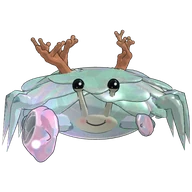
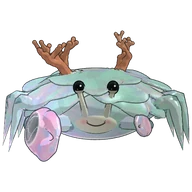
Shoal: smaller, far more intense world colours, a crabwise shuffle, and a bulldozer that visibly knocks obstacles off the road
- Drawn at 0.68 of life-size instead of 0.9 (half the runner's height at his shell); his breadth, claw reach and extent scaled to match
- Every world's palette pushed much harder (INTENSE: about 1.75x the saturation, pale tones pulled toward the full colour); his window and sheen only a little; facet edges and shell highlights toned down so the colour reads
- New idea, shuffle: he turns side on and runs along crabwise, weaving across his lane and sometimes turning about, eyes on the road; his stride now follows the way he's really going (across under him when side on); crabwise eases back instead of snapping
- Living Bulldozer: smashed obstacles are thrown clear of the road in a high spinning arc (squashed by the blow first) and only crumble once they've landed, over 1.6 s, with more rubble; he holds 7-11 m ahead instead of up to 14 so you see it happen
- Viewer: &crabwise=; portrait and docs image refreshed; README updated

Claude-Session: https://claude.ai/code/session_01XAN2RbzyEHspjm4Kn2Hekw

diff --git a/index.html b/index.html
@@ -31,10 +31,10 @@
     </style>
     <!-- release:start (written by tools/preload.py) -->
     <script type="importmap">
-    {"imports":{"./src/main.js":"./src/main.js?v=6f2a2a53da","./vendor/three/three.module.min.js":"./vendor/three/three.module.min.js?v=86bcee248b","./src/config.js":"./src/config.js?v=6867cf82cc","./src/render/shaders.js":"./src/render/shaders.js?v=ad3de8a980","./src/render/textures.js":"./src/render/textures.js?v=6d802edcba","./src/game/game.js":"./src/game/game.js?v=4bc769b2b2","./src/game/runner-asset.js":"./src/game/runner-asset.js?v=820ba20132","./src/game/characters.js":"./src/game/characters.js?v=33189eeacd","./src/game/companions.js":"./src/game/companions.js?v=7b829034a6","./src/world/index.js":"./src/world/index.js?v=f0cb629593","./src/world/world.js":"./src/world/world.js?v=ec93006a43","./src/game/prep.js":"./src/game/prep.js?v=e2e4f5b7a0","./src/core/input.js":"./src/core/input.js?v=03c1eb8ae7","./src/core/audio.js":"./src/core/audio.js?v=72e25c05c7","./src/ui/ui.js":"./src/ui/ui.js?v=1018e61893","./src/core/pacer.js":"./src/core/pacer.js?v=def43f8ae2","./src/core/quality.js":"./src/core/quality.js?v=8bfe731f23","./vendor/three/three.core.min.js":"./vendor/three/three.core.min.js?v=05b2609338","./src/render/candy.js":"./src/render/candy.js?v=a455b9b61f","./src/render/coast.js":"./src/render/coast.js?v=0663fd8f92","./src/core/rng.js":"./src/core/rng.js?v=abd1388a55","./src/render/particles.js":"./src/render/particles.js?v=f994d447a6","./src/game/course.js":"./src/game/course.js?v=1e674488dc","./src/game/chunks.js":"./src/game/chunks.js?v=f6cbbab127","./src/game/obstacles.js":"./src/game/obstacles.js?v=6bf00a3e3e","./src/game/gems.js":"./src/game/gems.js?v=d65f5abdf4","./src/render/sparkles.js":"./src/render/sparkles.js?v=997ba51a70","./src/game/camera.js":"./src/game/camera.js?v=1260744e47","./src/game/portal.js":"./src/game/portal.js?v=6d3c037577","./src/game/dream.js":"./src/game/dream.js?v=4e124d06a9","./src/game/bubbles.js":"./src/game/bubbles.js?v=4258f1e8c6","./src/game/splash.js":"./src/game/splash.js?v=92b98edefe","./src/game/warp.js":"./src/game/warp.js?v=fb484729e7","./src/game/sands.js":"./src/game/sands.js?v=d0b8a8de44","./src/game/progress.js":"./src/game/progress.js?v=8904c5a353","./src/game/powers.js":"./src/game/powers.js?v=063f8b2caf","./src/game/powerfx.js":"./src/game/powerfx.js?v=9a3afb67de","./src/game/wayfarer.js":"./src/game/wayfarer.js?v=41cb6a425d","./src/game/explorer.js":"./src/game/explorer.js?v=366568e27d","./src/game/elder.js":"./src/game/elder.js?v=136d99576d","./src/game/bunny.js":"./src/game/bunny.js?v=2b7d0f1765","./src/game/skater.js":"./src/game/skater.js?v=c729851aac","./src/game/samurai.js":"./src/game/samurai.js?v=2f82d9cd73","./src/game/fisher.js":"./src/game/fisher.js?v=9dcc7f9fe2","./src/game/fox.js":"./src/game/fox.js?v=a81905a96b","./src/game/companion.js":"./src/game/companion.js?v=008410158d","./src/game/dragon.js":"./src/game/dragon.js?v=11e0b82cd0","./src/game/flyer.js":"./src/game/flyer.js?v=934fb13ac5","./src/game/pitcher.js":"./src/game/pitcher.js?v=861a45cc75","./src/game/sprout.js":"./src/game/sprout.js?v=6f41f0c5be","./src/game/thistle.js":"./src/game/thistle.js?v=038bf22d29","./src/game/scurrier.js":"./src/game/scurrier.js?v=d706bed905","./src/game/crab.js":"./src/game/crab.js?v=592d37f452","./src/game/scuttler.js":"./src/game/scuttler.js?v=afa3cea3eb","./src/world/village.js":"./src/world/village.js?v=47d51ac366","./src/world/conservatory.js":"./src/world/conservatory.js?v=2e40981815","./src/world/forest.js":"./src/world/forest.js?v=500c880cf7","./src/world/candy.js":"./src/world/candy.js?v=bfefc39dc7","./src/world/rooftops.js":"./src/world/rooftops.js?v=5252d9ae61","./src/world/corridor.js":"./src/world/corridor.js?v=e2e5a154c5","./src/world/causeway.js":"./src/world/causeway.js?v=769bab5fac","./src/world/hell.js":"./src/world/hell.js?v=b3ab1a8175","./src/world/time.js":"./src/world/time.js?v=3fba54db6b","./src/world/ocean.js":"./src/world/ocean.js?v=b53c74ec24","./src/world/coast.js":"./src/world/coast.js?v=ce6e2982e8","./src/world/frost.js":"./src/world/frost.js?v=20f3330c81","./src/world/space.js":"./src/world/space.js?v=590468a61f","./src/render/batch.js":"./src/render/batch.js?v=ac0ce8dd63","./src/render/geo.js":"./src/render/geo.js?v=65235bbcb7","./src/world/planets.js":"./src/world/planets.js?v=0ae3276c9e","./src/world/river.js":"./src/world/river.js?v=9d1eb1658a","./src/game/drift.js":"./src/game/drift.js?v=1af79ddf31","./src/game/dust.js":"./src/game/dust.js?v=ea49fc9c99","./src/game/rig.js":"./src/game/rig.js?v=98e7195ada","./src/game/cloth.js":"./src/game/cloth.js?v=c7724fb614","./src/game/kit.js":"./src/game/kit.js?v=d22167362f","./src/game/outfit.js":"./src/game/outfit.js?v=af7aad6ba3","./src/game/player.js":"./src/game/player.js?v=52fc1bd819","./src/game/spill.js":"./src/game/spill.js?v=796bd6ce32","./src/game/sparks.js":"./src/game/sparks.js?v=062d576e7f","./src/game/props.js":"./src/game/props.js?v=db53ab6b6e","./src/game/seeds.js":"./src/game/seeds.js?v=2d185d41e4","./src/game/ribbon.js":"./src/game/ribbon.js?v=e630179469","./src/game/splashes.js":"./src/game/splashes.js?v=4a8f28cdb0","./src/game/tank.js":"./src/game/tank.js?v=cf10a6fda0","./src/game/castline.js":"./src/game/castline.js?v=219637935e","./src/render/caster.js":"./src/render/caster.js?v=565e8d80bc","./src/world/shapes.js":"./src/world/shapes.js?v=a1fade4ae2","./src/world/whimsy.js":"./src/world/whimsy.js?v=dc69d92aa1","./src/world/gems.js":"./src/world/gems.js?v=40d26f9f4a","./src/world/lane-art.js":"./src/world/lane-art.js?v=2245aa0fec","./src/world/hall-art.js":"./src/world/hall-art.js?v=8e03e0086f"}}
+    {"imports":{"./src/main.js":"./src/main.js?v=6f2a2a53da","./vendor/three/three.module.min.js":"./vendor/three/three.module.min.js?v=86bcee248b","./src/config.js":"./src/config.js?v=d7f71a4838","./src/render/shaders.js":"./src/render/shaders.js?v=899fb56639","./src/render/textures.js":"./src/render/textures.js?v=6d802edcba","./src/game/game.js":"./src/game/game.js?v=4bc769b2b2","./src/game/runner-asset.js":"./src/game/runner-asset.js?v=820ba20132","./src/game/characters.js":"./src/game/characters.js?v=33189eeacd","./src/game/companions.js":"./src/game/companions.js?v=464f871ccb","./src/world/index.js":"./src/world/index.js?v=f0cb629593","./src/world/world.js":"./src/world/world.js?v=ec93006a43","./src/game/prep.js":"./src/game/prep.js?v=e2e4f5b7a0","./src/core/input.js":"./src/core/input.js?v=03c1eb8ae7","./src/core/audio.js":"./src/core/audio.js?v=72e25c05c7","./src/ui/ui.js":"./src/ui/ui.js?v=1018e61893","./src/core/pacer.js":"./src/core/pacer.js?v=def43f8ae2","./src/core/quality.js":"./src/core/quality.js?v=8bfe731f23","./vendor/three/three.core.min.js":"./vendor/three/three.core.min.js?v=05b2609338","./src/render/candy.js":"./src/render/candy.js?v=a455b9b61f","./src/render/coast.js":"./src/render/coast.js?v=0663fd8f92","./src/core/rng.js":"./src/core/rng.js?v=abd1388a55","./src/render/particles.js":"./src/render/particles.js?v=f994d447a6","./src/game/course.js":"./src/game/course.js?v=1e674488dc","./src/game/chunks.js":"./src/game/chunks.js?v=f6cbbab127","./src/game/obstacles.js":"./src/game/obstacles.js?v=fc5a4fb1d5","./src/game/gems.js":"./src/game/gems.js?v=d65f5abdf4","./src/render/sparkles.js":"./src/render/sparkles.js?v=997ba51a70","./src/game/camera.js":"./src/game/camera.js?v=1260744e47","./src/game/portal.js":"./src/game/portal.js?v=6d3c037577","./src/game/dream.js":"./src/game/dream.js?v=4e124d06a9","./src/game/bubbles.js":"./src/game/bubbles.js?v=4258f1e8c6","./src/game/splash.js":"./src/game/splash.js?v=92b98edefe","./src/game/warp.js":"./src/game/warp.js?v=fb484729e7","./src/game/sands.js":"./src/game/sands.js?v=d0b8a8de44","./src/game/progress.js":"./src/game/progress.js?v=8904c5a353","./src/game/powers.js":"./src/game/powers.js?v=3f8229a91c","./src/game/powerfx.js":"./src/game/powerfx.js?v=9a3afb67de","./src/game/wayfarer.js":"./src/game/wayfarer.js?v=41cb6a425d","./src/game/explorer.js":"./src/game/explorer.js?v=366568e27d","./src/game/elder.js":"./src/game/elder.js?v=136d99576d","./src/game/bunny.js":"./src/game/bunny.js?v=2b7d0f1765","./src/game/skater.js":"./src/game/skater.js?v=c729851aac","./src/game/samurai.js":"./src/game/samurai.js?v=2f82d9cd73","./src/game/fisher.js":"./src/game/fisher.js?v=9dcc7f9fe2","./src/game/fox.js":"./src/game/fox.js?v=a81905a96b","./src/game/companion.js":"./src/game/companion.js?v=008410158d","./src/game/dragon.js":"./src/game/dragon.js?v=11e0b82cd0","./src/game/flyer.js":"./src/game/flyer.js?v=934fb13ac5","./src/game/pitcher.js":"./src/game/pitcher.js?v=861a45cc75","./src/game/sprout.js":"./src/game/sprout.js?v=6f41f0c5be","./src/game/thistle.js":"./src/game/thistle.js?v=038bf22d29","./src/game/scurrier.js":"./src/game/scurrier.js?v=d706bed905","./src/game/crab.js":"./src/game/crab.js?v=1d0e301cc1","./src/game/scuttler.js":"./src/game/scuttler.js?v=574409ce76","./src/world/village.js":"./src/world/village.js?v=47d51ac366","./src/world/conservatory.js":"./src/world/conservatory.js?v=2e40981815","./src/world/forest.js":"./src/world/forest.js?v=500c880cf7","./src/world/candy.js":"./src/world/candy.js?v=bfefc39dc7","./src/world/rooftops.js":"./src/world/rooftops.js?v=5252d9ae61","./src/world/corridor.js":"./src/world/corridor.js?v=e2e5a154c5","./src/world/causeway.js":"./src/world/causeway.js?v=769bab5fac","./src/world/hell.js":"./src/world/hell.js?v=b3ab1a8175","./src/world/time.js":"./src/world/time.js?v=3fba54db6b","./src/world/ocean.js":"./src/world/ocean.js?v=b53c74ec24","./src/world/coast.js":"./src/world/coast.js?v=ce6e2982e8","./src/world/frost.js":"./src/world/frost.js?v=20f3330c81","./src/world/space.js":"./src/world/space.js?v=590468a61f","./src/render/batch.js":"./src/render/batch.js?v=ac0ce8dd63","./src/render/geo.js":"./src/render/geo.js?v=65235bbcb7","./src/world/planets.js":"./src/world/planets.js?v=0ae3276c9e","./src/world/river.js":"./src/world/river.js?v=9d1eb1658a","./src/game/drift.js":"./src/game/drift.js?v=1af79ddf31","./src/game/dust.js":"./src/game/dust.js?v=ea49fc9c99","./src/game/rig.js":"./src/game/rig.js?v=98e7195ada","./src/game/cloth.js":"./src/game/cloth.js?v=c7724fb614","./src/game/kit.js":"./src/game/kit.js?v=d22167362f","./src/game/outfit.js":"./src/game/outfit.js?v=af7aad6ba3","./src/game/player.js":"./src/game/player.js?v=52fc1bd819","./src/game/spill.js":"./src/game/spill.js?v=796bd6ce32","./src/game/sparks.js":"./src/game/sparks.js?v=062d576e7f","./src/game/props.js":"./src/game/props.js?v=db53ab6b6e","./src/game/seeds.js":"./src/game/seeds.js?v=2d185d41e4","./src/game/ribbon.js":"./src/game/ribbon.js?v=e630179469","./src/game/splashes.js":"./src/game/splashes.js?v=4a8f28cdb0","./src/game/tank.js":"./src/game/tank.js?v=cf10a6fda0","./src/game/castline.js":"./src/game/castline.js?v=219637935e","./src/render/caster.js":"./src/render/caster.js?v=565e8d80bc","./src/world/shapes.js":"./src/world/shapes.js?v=a1fade4ae2","./src/world/whimsy.js":"./src/world/whimsy.js?v=dc69d92aa1","./src/world/gems.js":"./src/world/gems.js?v=40d26f9f4a","./src/world/lane-art.js":"./src/world/lane-art.js?v=2245aa0fec","./src/world/hall-art.js":"./src/world/hall-art.js?v=8e03e0086f"}}
     </script>
     <script>
-      window.__erV = {"assets/bunny/runner.bin":"308ea93321","assets/bunny/runner.bin.gz":"ed12d57aef","assets/bunny/runner.json":"12252320f8","assets/characters/bunny.webp":"e3e0700019","assets/characters/crab-face.webp":"e1bee0ab22","assets/characters/dragon-face.webp":"dec51580b3","assets/characters/elder.webp":"945970510d","assets/characters/explorer.webp":"4bd879e804","assets/characters/fisher.webp":"00f718bb6c","assets/characters/fox-face.webp":"08dcc02601","assets/characters/pitcher-face.webp":"46a7e7bfb9","assets/characters/samurai.webp":"9ae98a0047","assets/characters/skater.webp":"55d60e95b9","assets/characters/thistle-face.webp":"bb3a0765a9","assets/characters/wayfarer.webp":"0add36b52b","assets/crab/runner.bin":"d85c98b519","assets/crab/runner.bin.gz":"cbf1a63ddc","assets/crab/runner.json":"1ecd983c37","assets/dragon/runner.bin":"4734f30ca6","assets/dragon/runner.bin.gz":"685c2dcf90","assets/dragon/runner.json":"89910583e0","assets/elder/runner.bin":"158181f5ce","assets/elder/runner.bin.gz":"e68263fdea","assets/elder/runner.json":"4250919332","assets/explorer/runner.bin":"1f76f8e591","assets/explorer/runner.bin.gz":"5c8455314e","assets/explorer/runner.json":"9cc37d5830","assets/fisher/runner.bin":"2924e082f4","assets/fisher/runner.bin.gz":"65f797e234","assets/fisher/runner.json":"4c5e647f84","assets/fox/runner.bin":"8299cb8bf0","assets/fox/runner.bin.gz":"c619d91fda","assets/fox/runner.json":"5725b10771","assets/pitcher/runner.bin":"c56e931b0d","assets/pitcher/runner.bin.gz":"254931fac0","assets/pitcher/runner.json":"fdfe8c0bd3","assets/runner/runner.bin":"5420e75836","assets/runner/runner.bin.gz":"5eb574407e","assets/runner/runner.json":"7e56dd3e6f","assets/samurai/runner.bin":"b7ed3cb4ea","assets/samurai/runner.bin.gz":"b393becba8","assets/samurai/runner.json":"bf48bcbf27","assets/skater/runner.bin":"b5614f01dd","assets/skater/runner.bin.gz":"6da3d14757","assets/skater/runner.json":"2f0d0350c0","assets/thistle/runner.bin":"d86591b083","assets/thistle/runner.bin.gz":"b7f03913e1","assets/thistle/runner.json":"dbe8fdcd43","css/style.css":"d050b6ed40"};
+      window.__erV = {"assets/bunny/runner.bin":"308ea93321","assets/bunny/runner.bin.gz":"ed12d57aef","assets/bunny/runner.json":"12252320f8","assets/characters/bunny.webp":"e3e0700019","assets/characters/crab-face.webp":"d717e59b94","assets/characters/dragon-face.webp":"dec51580b3","assets/characters/elder.webp":"945970510d","assets/characters/explorer.webp":"4bd879e804","assets/characters/fisher.webp":"00f718bb6c","assets/characters/fox-face.webp":"08dcc02601","assets/characters/pitcher-face.webp":"46a7e7bfb9","assets/characters/samurai.webp":"9ae98a0047","assets/characters/skater.webp":"55d60e95b9","assets/characters/thistle-face.webp":"bb3a0765a9","assets/characters/wayfarer.webp":"0add36b52b","assets/crab/runner.bin":"d85c98b519","assets/crab/runner.bin.gz":"cbf1a63ddc","assets/crab/runner.json":"1ecd983c37","assets/dragon/runner.bin":"4734f30ca6","assets/dragon/runner.bin.gz":"685c2dcf90","assets/dragon/runner.json":"89910583e0","assets/elder/runner.bin":"158181f5ce","assets/elder/runner.bin.gz":"e68263fdea","assets/elder/runner.json":"4250919332","assets/explorer/runner.bin":"1f76f8e591","assets/explorer/runner.bin.gz":"5c8455314e","assets/explorer/runner.json":"9cc37d5830","assets/fisher/runner.bin":"2924e082f4","assets/fisher/runner.bin.gz":"65f797e234","assets/fisher/runner.json":"4c5e647f84","assets/fox/runner.bin":"8299cb8bf0","assets/fox/runner.bin.gz":"c619d91fda","assets/fox/runner.json":"5725b10771","assets/pitcher/runner.bin":"c56e931b0d","assets/pitcher/runner.bin.gz":"254931fac0","assets/pitcher/runner.json":"fdfe8c0bd3","assets/runner/runner.bin":"5420e75836","assets/runner/runner.bin.gz":"5eb574407e","assets/runner/runner.json":"7e56dd3e6f","assets/samurai/runner.bin":"b7ed3cb4ea","assets/samurai/runner.bin.gz":"b393becba8","assets/samurai/runner.json":"bf48bcbf27","assets/skater/runner.bin":"b5614f01dd","assets/skater/runner.bin.gz":"6da3d14757","assets/skater/runner.json":"2f0d0350c0","assets/thistle/runner.bin":"d86591b083","assets/thistle/runner.bin.gz":"b7f03913e1","assets/thistle/runner.json":"dbe8fdcd43","css/style.css":"d050b6ed40"};
       window.__erStart = ["vendor/three/three.module.min.js","vendor/three/three.core.min.js","src/world/village.js","src/config.js","src/render/shaders.js","src/render/textures.js","src/game/game.js","src/game/runner-asset.js","src/game/characters.js","src/game/companions.js","src/world/index.js","src/world/world.js","src/game/prep.js","src/core/input.js","src/core/audio.js","src/ui/ui.js","src/core/pacer.js","src/core/quality.js","src/world/shapes.js","src/world/whimsy.js","src/world/gems.js","src/world/lane-art.js","src/render/geo.js","src/render/candy.js","src/render/coast.js","src/core/rng.js","src/render/particles.js","src/game/course.js","src/game/chunks.js","src/game/obstacles.js","src/game/gems.js","src/render/sparkles.js","src/game/camera.js","src/game/portal.js","src/game/dream.js","src/game/bubbles.js","src/game/splash.js","src/game/warp.js","src/game/sands.js","src/game/progress.js","src/game/powers.js","src/game/powerfx.js","src/render/batch.js","src/world/planets.js","src/world/river.js","src/game/drift.js","src/game/dust.js"];
       window.__erBy = {"assets/runner/":["src/game/wayfarer.js","src/game/rig.js","src/game/cloth.js","src/game/kit.js","src/game/outfit.js","src/game/player.js","src/render/caster.js"],"assets/explorer/":["src/game/explorer.js","src/game/rig.js","src/game/cloth.js","src/game/kit.js","src/game/player.js","src/game/spill.js","src/render/caster.js"],"assets/elder/":["src/game/elder.js","src/game/rig.js","src/game/cloth.js","src/game/kit.js","src/game/player.js","src/game/sparks.js","src/render/caster.js"],"assets/bunny/":["src/game/bunny.js","src/game/rig.js","src/game/kit.js","src/game/player.js","src/game/props.js","src/game/seeds.js","src/render/caster.js","src/game/spill.js"],"assets/skater/":["src/game/skater.js","src/game/rig.js","src/game/kit.js","src/game/player.js","src/render/caster.js"],"assets/samurai/":["src/game/samurai.js","src/game/rig.js","src/game/kit.js","src/game/player.js","src/game/ribbon.js","src/render/caster.js"],"assets/fisher/":["src/game/fisher.js","src/game/rig.js","src/game/kit.js","src/game/player.js","src/game/splashes.js","src/game/tank.js","src/game/castline.js","src/render/caster.js"],"assets/fox/":["src/game/fox.js","src/game/companion.js","src/game/kit.js","src/game/rig.js","src/render/caster.js"],"assets/dragon/":["src/game/dragon.js","src/game/flyer.js","src/game/kit.js","src/game/rig.js","src/render/caster.js"],"assets/pitcher/":["src/game/pitcher.js","src/game/sprout.js","src/game/kit.js","src/game/rig.js","src/render/caster.js","src/game/companion.js"],"assets/thistle/":["src/game/thistle.js","src/game/scurrier.js","src/game/kit.js","src/game/rig.js","src/render/caster.js","src/game/sparks.js","src/game/companion.js"],"assets/crab/":["src/game/crab.js","src/game/scuttler.js","src/game/kit.js","src/game/rig.js","src/render/caster.js","src/game/companion.js"]};
     </script>

diff --git a/src/game/scuttler.js b/src/game/scuttler.js
@@ -10,6 +10,10 @@ import { Companion } from './companion.js';
 //   - peer: he drifts in a little closer, level with you, and looks at you
 //     with his head on one side - the way a dog does - his eyes on you;
 //   - wave: a wave of his little claw, and a smile;
+//   - shuffle: now and then he turns side on and runs along crabwise, the
+//     way a crab really goes, weaving a little from side to side in his
+//     lane (and sometimes turning about to face the other side), his eyes
+//     kept on the road ahead, then turns back to it;
 //   - sidle: he changes lane the way a crab would, crabwise - turned side
 //     on, scuttling across - and turns back to the road;
 //   - gaze: something at the side of the road catches his eye and he
@@ -67,7 +71,6 @@ export class Scuttler extends Companion {
 
   powerBegin() {
     super.powerBegin();
-    this.crabwise = 0;
   }
 
   // --- the frame ---------------------------------------------------------------------
@@ -78,8 +81,13 @@ export class Scuttler extends Companion {
     // (the world he's standing in: his colours turn to it)
     if (Number.isFinite(g.dist) && g.course?.segAt) b.world = g.course.segAt(g.dist + this.dz)?.world?.def?.id || b.world;
     else if (g.current) b.world = g.current.def.id;
-    // crabwise: turned side on to the way he's going
-    if (Math.abs(this.crabwise) > 1e-3) b.root.quaternion.multiply(_q.setFromAxisAngle(_UP, this.crabwise));
+    // crabwise: turned side on to the way he's going (and, whenever no idea
+    // of his wants it, easing back round to face the road)
+    if (this.beat !== 'sidle' && this.beat !== 'shuffle') this.crabwise *= Math.exp(-(dt || 0) * 5);
+    if (Math.abs(this.crabwise) < 1e-3) this.crabwise = 0;
+    if (this.crabwise) b.root.quaternion.multiply(_q.setFromAxisAngle(_UP, this.crabwise));
+    // (his legs step the way he's really going over the ground)
+    b.crabwise = this.crabwise;
   }
 
   // His eyes and a tilt follow what he looks at; and every so often he
@@ -126,6 +134,7 @@ export class Scuttler extends Companion {
       ['hop', this.canLeap(1.2) && this.openRoad(this.x, 1.4) ? 0.7 : 0],
       ['sidle', [0, 1, 2].some((l) => l !== lane && l !== this.laneOf(this.x) && this.openRoad(LANES[l], 2.4)) ? 1 : 0],
       ['peer', this.openRoad(this.x, 2.4) ? 1 : 0],
+      ['shuffle', this.grounded && this.openRoad(this.x, 2.5) ? 2.4 : 0],
     ];
     if (this.lastBeat) for (const o of opts) if (o[0] === this.lastBeat) o[1] *= 0.2;
     let total = 0;
@@ -166,6 +175,14 @@ export class Scuttler extends Companion {
       this.body.tiltNow(this.gazeSide, 0.9);
     }
     if (name === 'hop') this.jump(rand(0.22, 0.32), 'hop');
+    if (name === 'shuffle') {
+      this.beatLane = this.laneOf(this.x) !== lane ? this.laneOf(this.x) : pick(others);
+      // (which side he turns to face: toward you, mostly)
+      this.sideDir = (this.x > p.x ? 1 : -1) * (Math.random() < 0.75 ? 1 : -1);
+      this.shuffleT = rand(...this.C.shuffle.dur);
+      this.flipAt = Math.random() < 0.35 ? rand(0.4, 0.6) * this.shuffleT : -1;
+      this.cheer(1);
+    }
     if (name === 'sidle') {
       const from = this.laneOf(this.x);
       this.beatLane = toLane ?? pick([0, 1, 2].filter((l) => l !== lane && l !== from));
@@ -176,7 +193,6 @@ export class Scuttler extends Companion {
 
   endBeat() {
     super.endBeat();
-    this.crabwise = 0;
   }
 
   beatStep(dt) {
@@ -219,6 +235,25 @@ export class Scuttler extends Companion {
           this.cheer(0.8);
           this.endBeat();
         }
+        break;
+      }
+      case 'shuffle': {
+        // side on, running along crabwise and weaving a little across his
+        // lane; the moment there's anything to see to, back to the road
+        G.dz = clamp(this.dz, 0, 2.4);
+        G.x = LANES[this.beatLane] + this.C.shuffle.weave * Math.sin(t * this.C.shuffle.rate);
+        G.w = 3.5;
+        if (this.flipAt > 0 && t > this.flipAt) {
+          this.sideDir = -this.sideDir;
+          this.flipAt = -1;
+        }
+        const ending = t > this.shuffleT || !this.openRoad(this.x, 1.2) || !this.grounded;
+        const want = ending ? 0 : this.sideDir * Math.PI * 0.5;
+        this.crabwise += (want - this.crabwise) * (1 - Math.exp(-dt * 5));
+        // (his eyes on the road ahead, whichever way he's turned)
+        this.lookFor(0.2, { x: this.x, y: 0.6, dz: this.dz + 8 });
+        if (ending && Math.abs(this.crabwise) < 0.08) this.endBeat();
+        if (t > this.shuffleT + 3) this.endBeat();
         break;
       }
       case 'sidle': {

diff --git a/src/game/crab.js b/src/game/crab.js
@@ -134,19 +134,39 @@ export const WORLDS = {
   },
 };
 const MORPH = Object.keys(BASE).map(Number);
-// his palette in a world, as colours
+// his palette in a world, as colours - and laid on thick: every world's
+// mineral much more saturated than it's written (INTENSE: how much more, and
+// how far its pale tones are pulled down toward the full colour), so he's
+// unmistakably the world's own colour wherever you meet him. His window's
+// tint and his sheen only a little; his own sheet's colours as they are.
+export const INTENSE = { sat: 1.75, lift: 0.14, dark: 0.12 };
+const GENTLE = new Set([6, 17, 18, 30]);
+const _hsl = {};
 const _palCache = {};
 function worldPal(id) {
   if (_palCache[id]) return _palCache[id];
   const w = WORLDS[id] || {};
   const out = {};
-  for (const k of MORPH) out[k] = new THREE.Color(w[k] || BASE[k]);
+  for (const k of MORPH) {
+    const c = new THREE.Color(w[k] || BASE[k]);
+    if (id !== 'village' && WORLDS[id]) {
+      c.getHSL(_hsl);
+      const g = GENTLE.has(k) ? 0.3 : 1;
+      const s = Math.min(1, _hsl.s * (1 + (INTENSE.sat - 1) * g) + INTENSE.lift * g);
+      // (pale tones down toward the full colour, dark ones a little up)
+      let l = _hsl.l;
+      if (l > 0.62) l -= (l - 0.62) * INTENSE.dark * 3 * g;
+      c.setHSL(_hsl.h, s, l);
+    }
+    out[k] = c;
+  }
   return (_palCache[id] = out);
 }
 export const COL = { ...BASE, ...FIXED };
 
-// He's sculpted life-size (a giant of a crab), and drawn a touch smaller.
-export const SCALE = 0.9;
+// He's sculpted life-size (a giant of a crab), and drawn smaller: big
+// beside the runner, never towering over them.
+export const SCALE = 0.68;
 // How much bigger he grows for the Living Bulldozer.
 export const GROW = 0.5;
 // How long his colours take to turn to a new world's (s).
@@ -386,6 +406,8 @@ export class Crab {
     this.resonate = 0;
     this.dozer = 0;
     this.grow = 0;
+    // (how far he's turned side on to the way he's going: his mind sets it)
+    this.crabwise = 0;
     for (const k in this.wS) this.wS[k].reset(k === 'sit' ? 1 : 0);
     for (const s of Object.values(this.S)) s.reset();
     this.low.reset();
@@ -621,7 +643,11 @@ export class Crab {
       const up = Math.max(0, Math.sin(a));
       const hip = _p.copy(g.hip).applyMatrix4(shell.matrix);
       const foot = _t.copy(g.tip);
-      foot.z += amp * swing * 1.0;
+      // (the stride runs the way he's going over the ground: straight back
+      // under him as he runs forward, across under him when he runs
+      // crabwise - see crabwise)
+      foot.x -= Math.sin(this.crabwise || 0) * amp * swing;
+      foot.z += Math.cos(this.crabwise || 0) * amp * swing;
       foot.y += (0.05 + 0.25 * amp) * up * up * run;
       // (crossing the road: his feet reach the way he's going)
       foot.x += clamp(this.lat * 0.03, -0.12, 0.12) * up;

diff --git a/src/game/obstacles.js b/src/game/obstacles.js
@@ -299,7 +299,9 @@ export class ObstacleField {
           // (each piece outward from the middle of the road, whatever group
           // it's in; the middle one the way the claw swings)
           const out = Math.abs(it.x) < 0.6 ? dir : Math.sign(it.x);
-          items.push({ it, b, x: it.x, y: it.y, ry: it.ry, sx: it.sx, sy: it.sy, sz: it.sz, out, far: 5 + Math.random() * 4, up: 0.8 + Math.random() * 1.6, spin: (Math.random() < 0.5 ? -1 : 1) * (2 + Math.random() * 3) });
+          // (thrown clear of the road - it's 7 m across - in a high arc,
+          // spinning as it goes)
+          items.push({ it, b, x: it.x, y: it.y, ry: it.ry, sx: it.sx, sy: it.sy, sz: it.sz, out, far: 7 + Math.random() * 4 + Math.max(0, 2.4 - Math.abs(it.x)), up: 2.2 + Math.random() * 1.8, spin: (Math.random() < 0.5 ? -1 : 1) * (5 + Math.random() * 5) });
         }
       }
       const rec = row.lanes.find((r) => r && r.group === g);
@@ -319,18 +321,23 @@ export class ObstacleField {
     for (const B of this.blowing) {
       const k = Math.min(1, (time - B.t0) / B.dur);
       if (B.smash) {
-        // smashed: flung out and up, tumbling, crumbling away (a bar swept
-        // up and aside)
-        const e = 1 - Math.pow(1 - k, 2.2);
-        const gone = 1 - smoothK(0.3, 1, k);
+        // smashed: knocked clean off the road - out in a high arc, spinning
+        // as it goes, coming down at the roadside - a bar swept up and
+        // aside; and only once it's there, crumbling away
+        const e = 1 - Math.pow(1 - Math.min(1, k / 0.75), 2);
+        const gone = 1 - smoothK(0.72, 1, k);
+        // (a jolt of it as the claw lands: knocked over a little before it flies)
+        const jolt = Math.sin(Math.min(1, k / 0.12) * Math.PI) * (1 - Math.min(1, k / 0.12));
         for (const I of B.items) {
           const it = I.it;
           if (it.owner !== B.g) continue;
-          it.x = I.x + I.out * e * I.far * (B.high ? 1.3 : 1);
-          it.y = I.y + (B.high ? 1.8 * e : I.up * Math.sin(Math.min(1, e * 1.15) * Math.PI * 0.9));
+          it.x = I.x + I.out * (e * I.far * (B.high ? 1.25 : 1) + 0.3 * jolt);
+          it.y = I.y + (B.high ? 2.6 * e : I.up * 4 * e * (1 - e) + 0.15 * jolt);
           it.ry = I.ry + I.spin * e;
-          it.sx = I.sx * gone;
-          it.sy = I.sy * gone * (B.high ? 1 : 0.6 + 0.4 * gone);
+          // (squashed by the blow, then whole as it flies, then crumbling)
+          const hitK = 1 - 0.25 * Math.sin(Math.min(1, k / 0.1) * Math.PI);
+          it.sx = I.sx * gone * (2 - hitK);
+          it.sy = I.sy * gone * hitK;
           it.sz = I.sz * gone;
           I.b.dirty = true;
         }

diff --git a/src/render/shaders.js b/src/render/shaders.js
@@ -4183,7 +4183,7 @@ vec3 crFacets(vec3 c, vec3 r, float scale, float k) {
   vec3 cl = crCells(r * scale);
   c *= 1.0 + (cl.z - 0.5) * 0.12 * k;
   float edge = 1.0 - smoothstep(0.0, 0.07, cl.y - cl.x);
-  return mix(c, min(c * 1.35 + 0.08, vec3(1.0)), edge * 0.45 * k);
+  return mix(c, min(c * 1.3 + 0.05, vec3(1.0)), edge * 0.3 * k);
 }
 // Veins of paler mineral inside him: a near set and a deeper one, the deeper
 // shifted against your view (so it slides behind the surface as he turns).
@@ -4247,7 +4247,7 @@ vec3 crEye(vec3 c, vec3 r, inout float unlit) {
   // a little one
   vec3 col = mix(vec3(0.03, 0.03, 0.05), uPal[CR_DEEP] * 0.4, smoothstep(0.5, 1.0, length(q.xy)) * 0.6);
   vec2 w = vec2(q.x * sign(r.x), q.y);
-  float gl = fill(length(w - vec2(-0.3, 0.38) - q.z * 0.0) - 0.24) + 0.7 * fill(length(w - vec2(0.25, -0.2)) - 0.09);
+  float gl = fill(length(w - vec2(-0.3, 0.38)) - 0.17) + 0.7 * fill(length(w - vec2(0.25, -0.2)) - 0.07);
   col = mix(col, vec3(1.0), min(gl, 1.0) * step(q.z, 0.2));
   // the lids: from above as he blinks, and from below as he smiles
   float open = clamp(uFace.x, 0.0, 1.0);
@@ -6471,8 +6471,8 @@ void main() {
     // play of colour, and a glassy one off his eyes
     vec3 hv = normalize(uLightDir - V);
     float sp = pow(max(dot(n, hv), 0.0), m == 7 ? 60.0 : 28.0);
-    float shine = (m == 1 || m == 3 || m == 5) ? 0.55 : m == 7 ? 0.45 : m == 4 || m == 10 ? 0.3 : 0.12;
-    col += mix(uPal[30], vec3(1.0), 0.4) * min(sp * shine, 0.6) * (0.4 + 0.6 * lit);
+    float shine = m == 1 ? 0.3 : (m == 3 || m == 5) ? 0.5 : m == 7 ? 0.2 : m == 4 || m == 10 ? 0.3 : 0.12;
+    col += mix(uPal[30], vec3(1.0), 0.4) * min(sp * shine, 0.4) * (0.4 + 0.6 * lit);
   }
   if (m == 99) {
   #else

diff --git a/src/config.js b/src/config.js
@@ -216,7 +216,8 @@ export const CONFIG = {
     // the road (he's broad: hw in companions.js); never far ahead or
     // behind, and fond of being level with you. His curiosity: how often he
     // stops to peer at you, head on one side (s), and how long he looks.
-    // Sidling: the chance a change of lane goes crabwise. Under a bar he
+    // Sidling: the chance a change of lane goes crabwise; shuffling, below.
+    // Under a bar he
     // flattens himself (duck: how far ahead he sees one coming, s).
     crab: {
       gravity: 22,
@@ -231,6 +232,9 @@ export const CONFIG = {
       fetch: { every: [9, 16], reach: [6, 24], chance: 0.5, mischief: 0.08 },
       peer: { every: [5, 10], look: [1.2, 2.2] },
       sidle: 0.45,
+      // shuffling along crabwise: for how long (s), how far he weaves
+      // either side of his lane's middle (m), and how quickly (rad/s)
+      shuffle: { dur: [2.4, 4.2], weave: 0.4, rate: 2.2 },
       duck: 1.1,
     },
     // A companion who flies (the dragon - see game/flyer.js): the wind her
@@ -319,9 +323,9 @@ export const CONFIG = {
       // Living Bulldozer: dur s of him out ahead, grown, smashing every row
       // of obstacles off the road with his claw: ahead m in front of you
       // at least (more as you speed up: lead s of running), reach m in
-      // front of him where his claw strikes; each row's wreckage gone in
-      // clear s
-      dozer: { dur: 15, cd: 80, ahead: 8, lead: 0.45, max: 14, reach: 2.2, clear: 0.75 },
+      // front of him where his claw strikes; each row knocked off the road
+      // and gone in clear s
+      dozer: { dur: 15, cd: 80, ahead: 7, lead: 0.35, max: 11, reach: 2.2, clear: 1.6 },
     },
   },
 

diff --git a/tools/runner/crab.html b/tools/runner/crab.html
@@ -28,6 +28,8 @@
       //   &bg=0         a transparent background (for portraits)
       //   &look=camera  his eyes (and a tilt) turned to you; &happy=1 smiling
       //   &grow=<0..1>  grown for the bulldozer
+      //   &crabwise=<rad>  turned side on to the way he runs (1.57: a crab's
+      //                 own gait, his right side leading)
       import * as THREE from '../../vendor/three/three.module.min.js';
       import { shared } from '../../src/render/shaders.js';
       import { makeMarksTexture, makeNoiseTexture } from '../../src/render/textures.js';
@@ -122,6 +124,8 @@
       const vel = new THREE.Vector3();
       let y = 0, vy = 0, x = 0, air = null, crouch = null, jumped = false, smashed = false;
       cr.world = q.get('from') || world;
+      const cw = Number(q.get('crabwise') || 0);
+      const cwQ = new THREE.Quaternion().setFromAxisAngle(new THREE.Vector3(0, 1, 0), cw);
       function step(i) {
         const s = i * dt;
         const moving = pose === 'run' || pose === 'leap' || pose === 'duck' || pose === 'smash' || pose === 'resonate';
@@ -162,6 +166,8 @@
         vel.set(0, air ? vy : 0, moving ? -v : 0);
         at.set(x, y, -travel);
         cr.place(at, qi, 0, 0);
+        if (cw) cr.root.quaternion.multiply(cwQ);
+        cr.crabwise = cw;
         cr.happy = Number(q.get('happy') || 0);
         if (q.get('look') === 'camera') {
           cr.lookAt = new THREE.Vector3(0, 0.6, -6);

diff --git a/src/game/powers.js b/src/game/powers.js
@@ -929,9 +929,10 @@ function smashRow(Pw, A, row, dir) {
     const out = h.x === 0 ? dir : Math.sign(h.x);
     const y0 = h.kind === 'H' ? 1.6 : 0.3, y1 = h.kind === 'H' ? 2.6 : h.kind === 'W' ? 2.2 : 0.9;
     // chunks of it flung out and up, glints of his claw's crystal, a puff
-    for (let i = 0; i < 9; i++) fx.emit(h.x + rand(-0.8, 0.8), rand(y0, y1), z + rand(-0.4, 0.4), out * rand(2, 7), rand(2, 6), -g.speed * 0.3 + rand(-2, 2), rand(0.07, 0.16), 8);
-    for (let i = 0; i < 4; i++) fx.emit(h.x + rand(-0.6, 0.6), rand(y0, y1), z, out * rand(1, 4), rand(2, 5), rand(-1, 1), rand(0.04, 0.07), 7);
-    fx.emit(h.x, (y0 + y1) * 0.4, z, out * 1.5, 0.6, 0, 0.9, 0, 0.6, 0.9, 1.6);
+    for (let i = 0; i < 16; i++) fx.emit(h.x + rand(-0.8, 0.8), rand(y0, y1), z + rand(-0.4, 0.4), out * rand(3, 9), rand(3, 7), rand(-2, 2), rand(0.08, 0.2), 8);
+    for (let i = 0; i < 6; i++) fx.emit(h.x + rand(-0.6, 0.6), rand(y0, y1), z, out * rand(1, 5), rand(2, 6), rand(-1, 1), rand(0.05, 0.08), 7);
+    fx.emit(h.x, (y0 + y1) * 0.4, z, out * 1.5, 0.6, 0, 1.1, 0, 0.65, 1, 1.8);
+    fx.emit(h.x + out * 0.8, 0.3, z, out * 3, 0.4, 0, 0.8, 0, 0.5, 0.8, 1.4);
   }
   g.cam.kick(0.22);
   g.audio.smash?.(clamp(hit[0].x / 3, -1, 1));

diff --git a/src/game/companions.js b/src/game/companions.js
@@ -95,11 +95,11 @@ export const COMPANIONS = [
       mind: (game, def, body) => new m.Scuttler(game, def, body),
     })),
     tune: CONFIG.companion.crab,
-    hw: 0.92,
-    mouth: [0.5, 0.42],
+    hw: 0.72,
+    mouth: [0.38, 0.32],
     // (how far his shell, legs and claws reach, for tools/companion/audit.js)
     // (duck: how much lower he is flattened under a bar)
-    extent: { front: 1.15, back: 0.6, side: 0.9, top: 1.35, duck: 0.55 },
+    extent: { front: 0.87, back: 0.46, side: 0.7, top: 1.03, duck: 0.42 },
   },
 ];
 

diff --git a/README.md b/README.md
@@ -3592,7 +3592,8 @@ touches nothing.
 ![Shoal: front, left side, behind and three-quarters; his colours in the Deepwood, the Blue Hour, Candy World and Hell; his scuttle from the side; and in a run - beside the runner in the Deepwood, out ahead in Candy World as the Living Bulldozer, a gumdrop he's smashed flying off the road, and humming beside you in the Blue Hour with Crystal Resonance](docs/crab.jpg)
 
 Shoal is a giant crab, and a very friendly one: broad and softly rounded,
-knee-high to the runner at the crown of his shell (taller with his coral),
+about half the runner's height at the crown of his shell (a little more
+with his coral; sculpted life-size and drawn smaller, `SCALE` in `crab.js`),
 everything about him grown from translucent, opalescent mineral. His shell
 is laid over with tiers of plates, each a thin lamina proud of the one
 beneath with a scalloped, flared edge; under it a pale body and a soft face
@@ -3644,7 +3645,10 @@ out across the palm a point is, so it's a smooth oval whatever the mesh.
 his own in `crab.js` (`WORLDS`): mossy green and amber in the Deepwood, cool
 blues and violet in the Blue Hour, candy pinks and candy-coloured opal in
 Candy World, ice and alexandrite in the Frostbound Pass, obsidian lit like
-embers in Hell, pearl in the Kelp Deep, and so on for all thirteen. His
+embers in Hell, pearl in the Kelp Deep, and so on for all thirteen — and
+laid on thick: every world's colours are pushed well past how they're
+written (`INTENSE`: much more saturated, the pale tones pulled down toward
+the full colour), so he's unmistakably the world's own colour. His
 shell, legs, joints, both claws and his coral all change, and so does the
 play of colour over them; the window in his claw stays clear, only tinted.
 When he walks into a new world (his own position, not yours: he can be a
@@ -3668,7 +3672,11 @@ lurch. Glints of opal fly off his feet as they strike the road.
 **His mind** (`src/game/scuttler.js`, built on the fox's `companion.js` for
 reading the road): unhurried, curious and fond of you. He ambles a lane
 over, level with you or a little ahead, and his ideas are quiet ones — he
-comes in close and peers at you, head on one side; waves; changes lane the
+comes in close and peers at you, head on one side; waves; now and then
+turns side on and runs along crabwise — a crab's own gait, his legs
+striding across under him, weaving a little from side to side in his lane,
+sometimes turning about to face the other way, his eyes kept on the road —
+then turns back to it; changes lane the
 way a crab would, turned side on and scuttling across; watches something
 go by at the side of the road, tilting after it; a little hop, because he's
 happy — and now and then he fetches a gem in his little claw. He's broad:
@@ -3787,9 +3795,10 @@ companion menu say so, and there's nothing to buy for it yet.
    of the road and grows half as big again, his great claw up; for 15 s
    every breakable row of obstacles that reaches him, in every lane, he
    smashes off the road with a swing of it — from that moment it can't hit
-   you; what's left of it is flung outward and up, tumbling, a bar overhead
-   swept up and aside, and all of it crumbles away to nothing in under a
-   second while chunks of it and glints of his crystal fly. He keeps far
+   you, and it's knocked clean off the road: thrown out in a high arc over
+   the roadside, spinning, a bar overhead swept up and aside, chunks of it
+   and glints of his crystal flying, and only once it's landed does it
+   crumble away (1.6 s in all, so you see it go as you run past). He keeps far
    enough ahead (more the faster you go: `CONFIG.powers.crab.dozer`) that
    you see the road he's cleared lying open between you. A climb or a river
    isn't his to break: he clambers over and wades through. Rows he smashes
